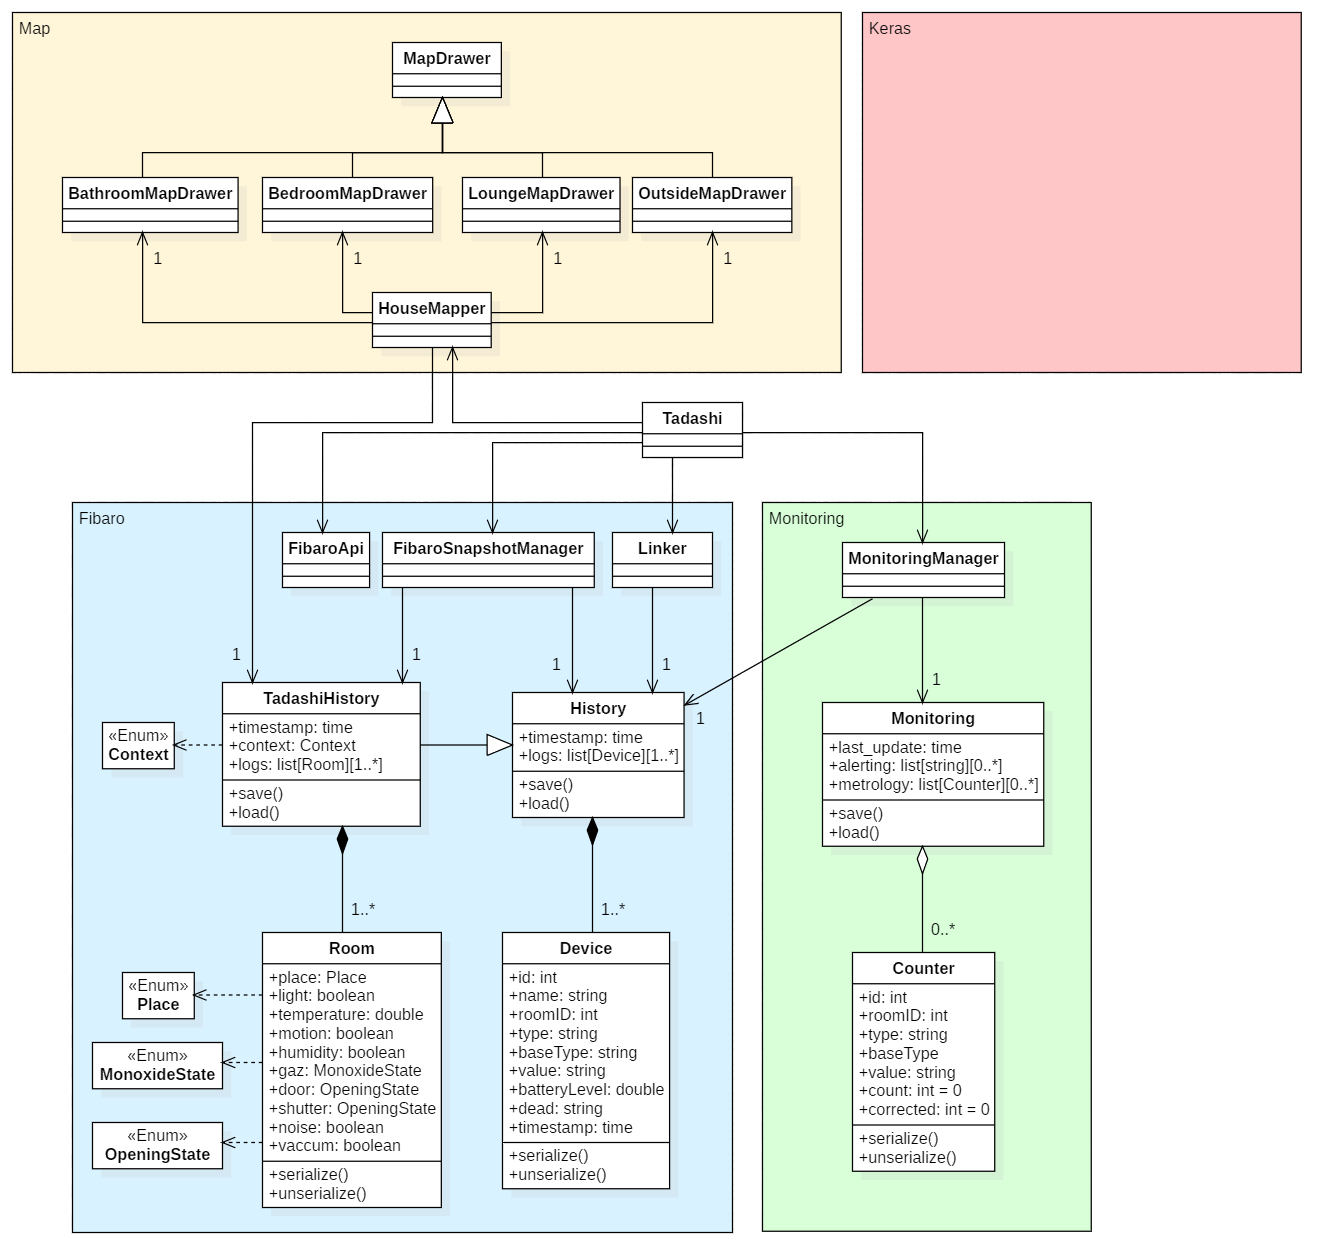
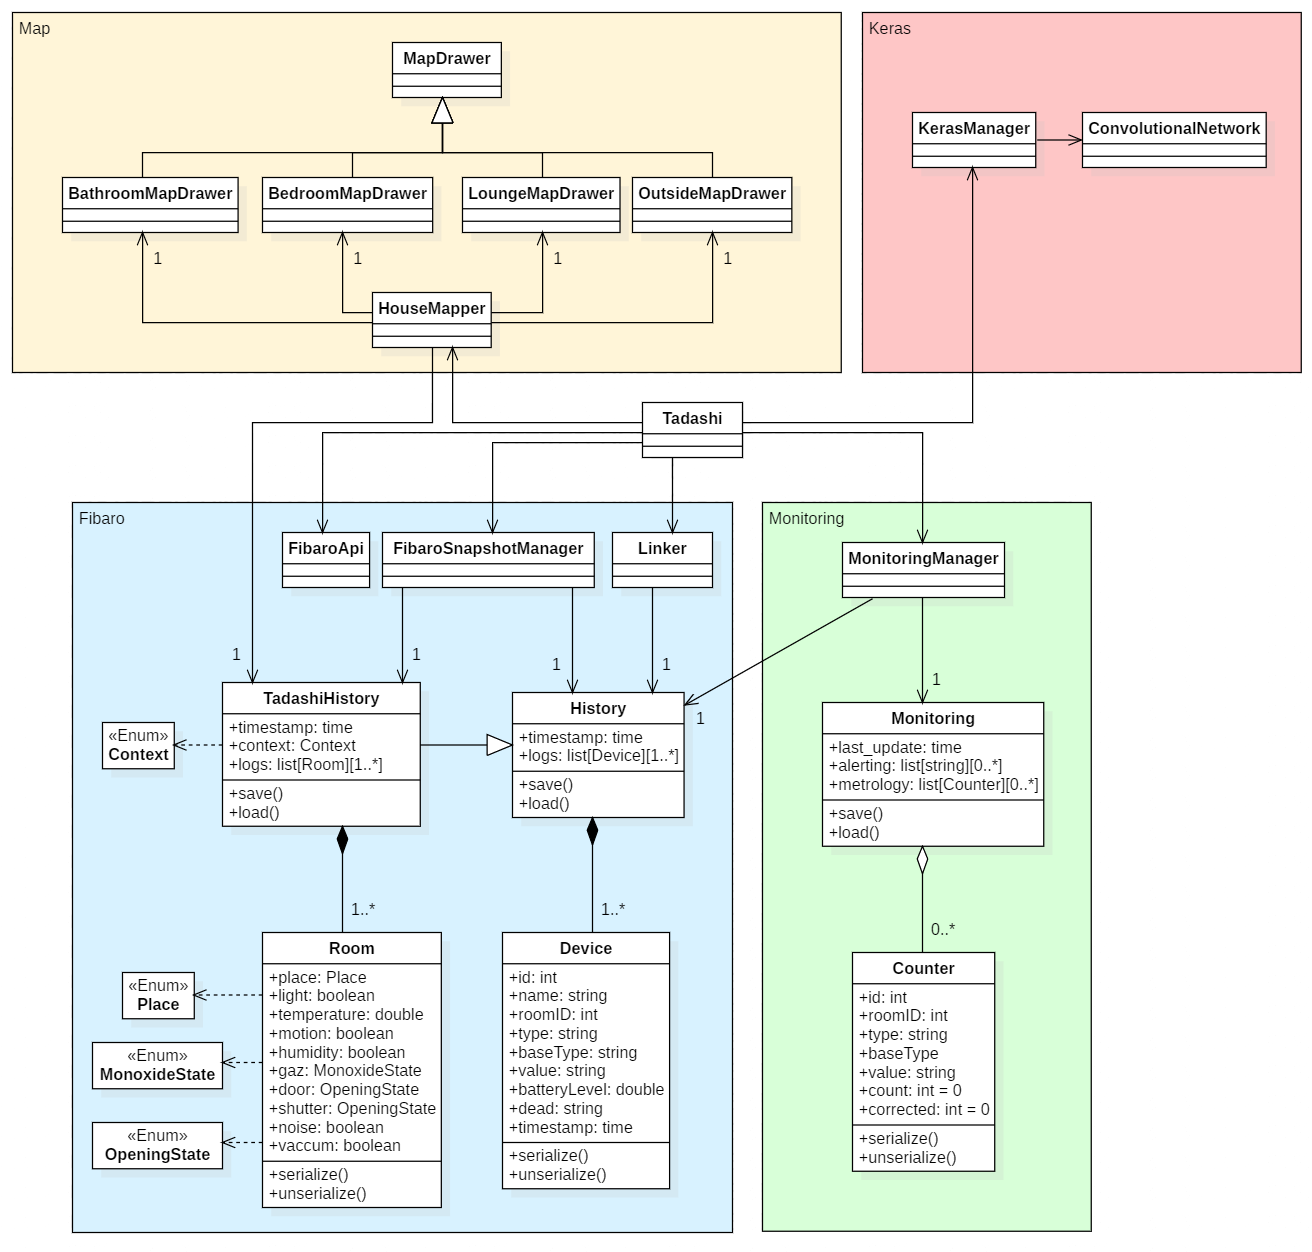
Update readme

Changed region(s): [[0.0312, 0.0, 1.0, 1.0]]

diff --git a/README.md b/README.md
@@ -4,19 +4,25 @@ Tadashi is a context-aware deep decision system for smart home.
 
 ### What is it?
 
-This project is closely modelled on the <a rel="arcades" href="https://gricad-gitlab.univ-grenoble-alpes.fr/brenona/arcades">ARCADES</a> project of my colleague <a rel="alexis" href="https://github.com/AlexisBRENON">Alexis Brenon</a>.
-I invite you to read the <a rel="hal" href="https://hal.archives-ouvertes.fr/hal-01829401">ARCADES's paper</a>.
+This project is closely modelled on the <a rel="arcades" href="https://gricad-gitlab.univ-grenoble-alpes.fr/brenona/arcades">ARCADES</a> project of my former colleague <a rel="alexis" href="https://github.com/AlexisBRENON">Alexis Brenon</a>.
+I invite you to read the <a rel="hal" href="https://hal.archives-ouvertes.fr/hal-01829401">ARCADES paper</a>.
 Please cite this paper if you use Tadashi.
 
-If you speak French and if you are really interested by his work, I recommend you to read his <a rel="thesis" href="https://tel.archives-ouvertes.fr/tel-01818123">thesis</a>.
+If you understand French and if you are really interested by his work, I recommend you to read his <a rel="thesis" href="https://tel.archives-ouvertes.fr/tel-01818123">thesis</a>.
 
 ### What does Tadashi mean?
+
+<p align="left"><img width="500px" src="https://media.comicbook.com/2015/09/tadashiageofultron-151099.png"></p>
 
 > "In preparation for the Battle of Sokovia against Ultron, Tony Stark sifted through a collection of U.I. chips to select one that would replace J.A.R.V.I.S., whose matrices had been uploaded into the Vision. One chip seen was labelled "T.A.D.A.S.H.I.", however, he instead chose F.R.I.D.A.Y. [...] T.A.D.A.S.H.I. is a reference to the film Big Hero 6, where the robotic member of the titular team, Baymax, has its A.I. program stored in a chip labeled with the name of his creator, Tadashi Hamada."
 
 ― <a rel="mcuf" href="https://marvelcinematicuniverse.fandom.com/wiki/T.A.D.A.S.H.I.">Marvel Cinematic Universe Fandom</a>
 
 ### How it works?
+
+#### Overview
+
+<p align="center"><img src="https://github.com/FerreroJeremy/tadashi/blob/master/doc/component_diagram.png"></p>
 
 #### Fibaro sensors
 
@@ -61,36 +67,36 @@ After, a map of the home is built from the `TadashiHistory`, i.e. the list of th
 To charm you, I put below an example of generated map from sensor states:
 <p align="center"><img width="300px" src="https://github.com/FerreroJeremy/tadashi/blob/master/doc/map.png"></p>
 
-You can see in the lower left corner a further feature, the context.
+You can see in the lower left corner a future feature, the context.
 The context will be the activity do by the customer or the meta-state of the home, e.g. travelling, cooking, sleeping... and it will be useful to supply an additional information to the neural network.
 
 #### Linker
 
 At every passage of the script, the `Linker` compute the new action -new activated switch according sensors- and link it with the previous generated map (the map generated in the previous passage) to feed the neural network.
-Starting from the premise that in a home state (context) n-1 we want to automaticlly execute the command that led to the state n.
-This postulate can be easily improved further, e.g. multi-label classification.
+Starting from the premise that in a home state n-1 we want to automaticlly execute the command that led to the state n.
+This postulate can be easily further improved, e.g. multi-label classification.
 
 #### Deep learning
 
-Once the mapping list built by Linker we can use it to feed a neural network and learn a model.
-Like that, when the home is in a certain context/state, the neural network can predict a command to execute.
-The command is then executed through a Fibaro API call.
+Once the mapping [switch to activate - map] list built by `Linker` we can use it to feed a convolutional neural network and learn a model.
+Like that, when the home is in a certain state, the neural network can predict a command to execute.
+The command is finally executed through a Fibaro API call.
 
 The deep learning library uses is <a rel="keras" href="https://keras.io/">Keras</a>.
+The convolutional network uses is the VGG, first introduced by <a rel="vgg" href="https://arxiv.org/pdf/1409.1556/">Simonyan and Zisserman (2014)</a> which was subsequently used in many projects winning numerous challenges in image recognition task.
 
-After the training, a graph is generated showing the loss and accuracy of the training.
+After the model training, a graph is generated showing the loss and accuracy of the training.
 <p align="center"><img width="500px" src="https://github.com/FerreroJeremy/tadashi/blob/master/doc/learning.png"></p>
 
-The learning is not carried out at each passage of the script, unlike the mapping and linking.
+The learning is not carried out at each passage of the script, unlike the mapping, linking and classification process.
 By default, it is done every 3 days after 3a.m.
 You can change this in `tadashi.py`.
-I invent you to take a look in `periodicallyProcessor.py`.
+I invite you to take a look in `periodicallyProcessor.py` too.
 
 #### Monitoring
 
-The monitoring module compute some alerting, like the list of the devices with no more battery, and metrology, like graphs with the most used sensors and the confusion matrice of model predictions.
-
-The metrology is a list composed of `Counter` objects like:
+The monitoring module compute some alerting (e.g. the list of the devices with no more battery) and metrology (e.g. graphs with the most used sensors).
+The metrology is a list composed of `Counter` objects, like:
 
 ```json
 {
@@ -104,7 +110,10 @@ The metrology is a list composed of `Counter` objects like:
 }
 ```
 
-<p align="left"><img width="900px" src="https://github.com/FerreroJeremy/tadashi/blob/master/doc/graphics.png"></p>
+The monitoring module compute also a graph with the most corrected predictions and the confusion matrice of predictions.
+This can be used later to integrate reinforcement learning in the convolutional neural network as in <a rel="hal" href="https://hal.archives-ouvertes.fr/hal-01829401">ARCADES</a>.
+
+<p align="center"><img width="900px" src="https://github.com/FerreroJeremy/tadashi/blob/master/doc/graphics.png"></p>
 
 ### How adapt it to your home?
 
@@ -133,21 +142,36 @@ Add a class corresponding to your room that inherits the parent `MapDrawer` clas
 Override each of the necessary methods as do the other `*MapDrawer` classes (e.g. `LoungeMapDrawer`).
 Override the `draw_room_wall` method to define the walls of the room, the `draw_*_sensor` methods to add sensors in the room, and so on.
 
-3. **Add a sensor and Other bigger changes**
+3. **Add a sensor and other bigger changes**
 Normally, if you use Fibaro in your smart home, the script is now ready and adapted to your home.
-But, if you use another sensor provider, you should definitely refactor the `FibaroSnapshotManager` class -API call- and probably the `Device` and `Room` objects.
-And because the mapping, linking and monitoring depend on model objects, that depend on sensor provider and API call, you will need to change that too, so lot things in the end.
-But, courage, if you know some things in Python, it shouldn't be too hard. I tried my best to do clean POO minimalist code.
+But, if you use another sensor provider, you should definitely refactor the whole `Fibaro` module and maybe modify the `Device` and `Room` objects too.
+But, courage, if you know some things in Python, it shouldn't be too hard. I tried my best to do POO minimalist pythonic clean code.
 
-Nothing to change in the neural network part, if the linker's file is correct the learning will be correct too, don't worry ;)
+Nothing to change in the neural network part, if the `Linker`'s output file is correct the learning will be correct too.
 
 ### Conception
 
 <p align="center"><img src="https://github.com/FerreroJeremy/tadashi/blob/master/doc/class_diagram.png"></p>
-The above diagram was modeled with <a rel="staruml" href="http://staruml.io/">StarUML</a>.
+
+The above UML class diagram was modeled with <a rel="staruml" href="http://staruml.io/">StarUML</a>.
+The conception is faithful to the structure of the project, the classes are grouped by module, each of them dealing with a part of the project.
+The classes imported from the Python Standard Library do not appear in the diagram (e.g. Exception).
 
 
 ### Dependencies
 
+The list of the current dependencies can be found in the `requirements.txt` file, and is also available below.
 
+- pytz==2018.9
+- pandas==0.24.2
+- imutils==0.5.2
+- svgwrite==1.2.1
+- numpy==1.16.4
+- astral==1.10.1
+- seaborn==0.9.0
+- matplotlib==3.1.0
+- Keras==2.2.4
+- tensorflow=1.14
+- fontawesome==5.7.2.post1
+- scikit_learn==0.21.2
 
